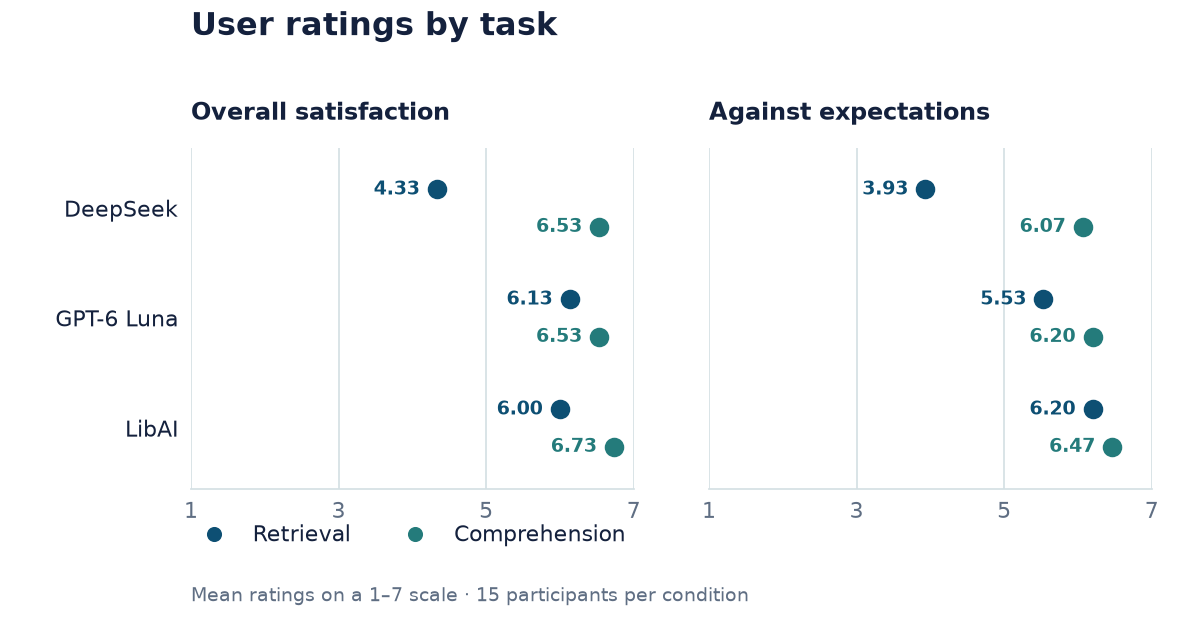
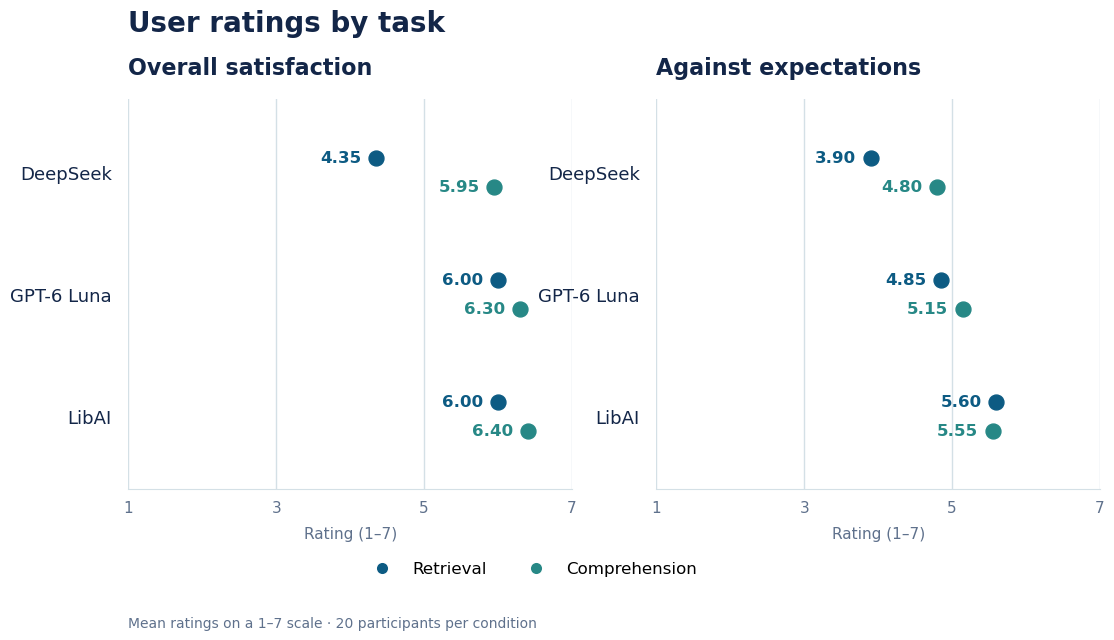
Add files via upload

diff --git a/ADS401_GroupJ_Report.html b/ADS401_GroupJ_Report.html
@@ -63,7 +63,7 @@
 <div class="overview-copy">
 <p class="lead-paragraph">This project examines whether XJTLU postgraduate students use LibAI for literature work, what they want from a library AI service, and how LibAI performs on common literature tasks.</p>
 <p>We first surveyed 107 postgraduates about LibAI use, non-use reasons, AI-supported literature tasks and improvement priorities. We then compared LibAI with ChatGPT (GPT-6 Luna configuration) and DeepSeek on literature retrieval and abstract understanding, and used interview feedback to add context to the results.</p>
-<p>Respondents placed particular value on reliable, verifiable sources and accuracy. In the retrieval task, LibAI matched GPT-6 Luna on mean quality and source verifiability. Interview feedback also identified faster responses as a desired improvement. Together, the findings suggest preserving and improving source traceability while treating response speed as a service need for further evaluation.</p>
+<p>Respondents placed particular value on reliable, verifiable sources and accuracy. In the retrieval task, LibAI matched GPT-6 Luna on mean quality and source verifiability. Interviewees mentioned speed, while generally prioritising reliability; response time is therefore a service need to investigate alongside quality.</p>
 </div>
 <div aria-label="Key survey and task study results" class="evidence-strip" role="group"><div class="evidence-item"><p class="evidence-number">40.2%</p><p>had ever used LibAI (43 of 107)</p></div><div class="evidence-item"><p class="evidence-number">59.8%</p><p>had never used LibAI (64 of 107)</p></div><div class="evidence-item"><p class="evidence-number">50.5%</p><p>selected source verification or accuracy as their top improvement</p></div><div class="evidence-item"><p class="evidence-number">19.30 / 20</p><p>mean retrieval score for both LibAI and GPT-6 Luna</p></div></div>
 </div></section>
@@ -82,7 +82,7 @@
 <div class="section-heading"><p class="section-label">04 / Study design and methods</p><h2>Survey design and experiment approach</h2></div>
 <div class="finding-block single"><div><h3>4.1 Questionnaire: adoption and user needs</h3><p>The questionnaire moved from students’ general AI use to their specific experience with LibAI. It asked which AI tools they used for literature-related work and which tasks they used them for; whether they knew about or had used LibAI; and, based on their experience, what factors encouraged or hindered use. It also asked respondents to rate desired functions and select the improvement they would prioritise first. Responses about common literature tasks informed task selection, while the other AI tools reported by respondents informed comparator selection. The bilingual questionnaire targeted XJTLU postgraduate students. Of 124 raw submissions, six did not consent and 11 were not XJTLU postgraduates, leaving 107 eligible responses.</p><p>Findings are descriptive and exploratory. The survey used non-probability convenience/snowball recruitment.</p></div></div>
 <div class="survey-experiment-map"><h3>How the survey informed the experiment</h3><p class="map-intro">Three questionnaire findings shaped the task choice, comparison systems and scoring focus.</p><div class="map-row"><div class="map-survey"><p class="map-label">Survey question · Q6</p><h4>Which academic tasks do students use AI for?</h4><p>Among 97 recent AI users, literature search/screening and reading/summarising were each selected by 61 respondents.</p></div><div class="map-arrow" aria-hidden="true">→</div><div class="map-experiment"><p class="map-label">Experiment design</p><h4>Test literature retrieval and abstract understanding</h4><p>The two task areas represent common literature work reported in the questionnaire.</p></div></div><div class="map-row"><div class="map-survey"><p class="map-label">Survey question · Q7</p><h4>Which AI tool do students use most?</h4><p>ChatGPT was named by 32 respondents and DeepSeek by 31; two named LibAI (n=97).</p></div><div class="map-arrow" aria-hidden="true">→</div><div class="map-experiment"><p class="map-label">Experiment design</p><h4>Compare LibAI with ChatGPT and DeepSeek</h4><p>The experiment used GPT-6 Luna as the ChatGPT configuration, alongside DeepSeek and LibAI.</p></div></div><div class="map-row"><div class="map-survey"><p class="map-label">Survey question · Q28</p><h4>Which improvement should LibAI prioritise first?</h4><p>Verifiable sources were selected by 28 respondents and accuracy by 26 (n=107).</p></div><div class="map-arrow" aria-hidden="true">→</div><div class="map-experiment"><p class="map-label">Experiment design</p><h4>Score source traceability and answer quality</h4><p>The rubric assessed source verifiability, correctness, relevance, completeness and clarity.</p></div></div><p class="map-caption">The survey determined what to examine; the experiment compared outputs on those selected tasks and criteria.</p></div>
-<div class="two-col"><div><h3>4.2 Task comparison: procedure</h3><p>To assess the common literature tasks identified in the survey, 20 XJTLU postgraduates used LibAI, DeepSeek and GPT-6 Luna (ChatGPT configuration) to complete a literature-retrieval task and a fixed abstract-comprehension task. Each participant completed six trials, producing 120 answers for scoring. Participants were interviewed after the tasks. The results briefly compare the three systems on these tasks.</p></div><div><h3>4.3 Measures and safeguards</h3><p>Participants recorded each system’s specific response. The group then conducted a second blind review of the recorded answers to cross-check the results. Reviewers assessed correctness, relevance, completeness, source verifiability and clarity/actionability using the 0–20 scoring scale. </p><p>All 20 participants’ task answers were included in output scoring. Complete seven-point satisfaction and expectation ratings were available for 15 participants; the other five records were incomplete for this measure and were not included in the rating analysis. Participation in the questionnaire and experiment required informed consent, and recording required separate consent. This page reports aggregate findings only and does not display raw responses or identifying information.</p></div></div>
+<div class="two-col"><div><h3>4.2 Task comparison: procedure</h3><p>To assess the common literature tasks identified in the survey, 20 XJTLU postgraduates used LibAI, DeepSeek and GPT-6 Luna (ChatGPT configuration) to complete a literature-retrieval task and a fixed abstract-comprehension task. Each participant completed six trials, producing 120 answers for scoring. Participants were interviewed after the tasks. The results briefly compare the three systems on these tasks.</p></div><div><h3>4.3 Measures and safeguards</h3><p>Participants recorded each system’s specific response. The group then conducted a second blind review of the recorded answers to cross-check the results. Reviewers assessed correctness, relevance, completeness, source verifiability and clarity/actionability using the 0–20 scoring scale. </p><p>All 20 participants’ task answers were included in output scoring. Complete seven-point satisfaction and expectation ratings were available for all 20 participants and analysed as within-participant responses. Participation in the questionnaire and experiment required informed consent, and recording required separate consent. This page reports aggregate findings only and does not display raw responses or identifying information.</p></div></div>
 </div></section>
 <section class="section" id="findings"><div class="wrap">
 <div class="section-heading"><p class="section-label">05 / Survey findings</p><h2>Few students use LibAI; sources and accuracy lead priorities</h2></div>
@@ -93,28 +93,28 @@
 <div class="finding-block"><div><p class="mini-label">RQ3 / Barriers and priorities</p><h3>Non-use reflects competing tools and practical barriers</h3><p>Among 64 respondents who had never used LibAI, 30 said external AI already met their literature needs (46.9%). Twenty-four did not know which academic tasks LibAI could help with (37.5%), 24 lacked an opportunity to try it (37.5%), and 22 did not know how to access it (34.4%). Sixteen (25.0%) reported concerns about accuracy or sources.</p><p>Among 43 current or former users, commonly reported limitations included insufficient database or resource coverage (18, 41.9%), irrelevant or inaccurate results (17, 39.5%), and external AI already meeting their needs (17, 39.5%). Sixteen users (37.2%) also reported difficulty with complex or mixed-language requests, while 15 (34.9%) reported insufficient source or evidence information.</p></div><div class="finding-aside"><p class="mini-label">Improvement priorities</p><p>As a single top priority, 28 respondents selected verifiable sources and evidence (26.2%), and 26 selected accuracy and fewer fabricated answers (24.3%). Together, these accounted for 54 of 107 choices (50.5%). Database coverage followed with 13 choices (12.1%).</p></div></div>
 </div></section>
 <section class="section alt" id="experiment"><div class="wrap">
-<div class="section-heading"><p class="section-label">06 / Task experiment</p><h2>LibAI and GPT-6 Luna performed similarly across the two tasks</h2></div>
-<p class="lead-paragraph">Across the two tasks, LibAI and GPT-6 Luna achieved similar mean scores. On literature retrieval, both averaged 19.30/20, compared with 13.75/20 for DeepSeek. On abstract comprehension, scores were close to the maximum: 19.85/20 for LibAI, 19.90/20 for GPT-6 Luna and 19.50/20 for DeepSeek; no pairwise differences were statistically significant. These results indicate that LibAI performed comparably to GPT-6 Luna on the tasks tested.</p>
+<div class="section-heading"><p class="section-label">06 / Task experiment</p><h2>Experiment on LibAI and Common Generative AI's Retrieval and Comprehension Abilities</h2></div>
+<p class="lead-paragraph">Across the same literature-retrieval and abstract-comprehension tasks, the systems showed different patterns. LibAI and GPT-6 Luna both averaged 19.30/20 on retrieval, above DeepSeek's 13.75/20; LibAI also matched GPT-6 Luna on source verifiability (3.75/4). Comprehension scores clustered near full marks, with no significant pairwise differences. This supports a comparison on the tested tasks, not a general ranking across topics or users.</p>
 
 <div class="table-wrap"><table><caption>Table 2. Mean answer quality and full-mark counts in the reported task sample</caption><thead><tr><th>System</th><th>Retrieval mean (SD)</th><th>Retrieval full marks</th><th>Comprehension mean (SD)</th><th>Comprehension full marks</th></tr></thead><tbody><tr><th scope="row">DeepSeek</th><td>13.75 (1.83)</td><td>0 / 20</td><td>19.50 (0.69)</td><td>12 / 20</td></tr><tr><th scope="row">GPT-6 Luna (ChatGPT)</th><td>19.30 (1.63)</td><td>14 / 20</td><td>19.90 (0.45)</td><td>19 / 20</td></tr><tr><th scope="row">LibAI</th><td>19.30 (0.86)</td><td>11 / 20</td><td>19.85 (0.49)</td><td>18 / 20</td></tr></tbody></table></div>
-<div class="chart-overview"><div class="chart-overview-head"><div><p class="mini-label">Task evidence</p><h3>Quality and user ratings</h3></div><p>Quality scores cover all 20 participants. Experience ratings use 15 complete cases.</p></div><div class="chart-mosaic"><figure class="primary-chart"><img alt="Mean quality out of 20: retrieval DeepSeek 13.75, GPT-6 Luna 19.30, LibAI 19.30; comprehension 19.50, 19.90 and 19.85." class="chart-image" src="assets/experiment-charts/mean-quality.png"/><figcaption><strong>Figure 6.</strong> Mean blinded quality score, n=20 per system and task.</figcaption></figure><figure class="primary-chart"><img alt="Retrieval source verifiability averages: DeepSeek 2.20/4, GPT-6 Luna 3.75/4, LibAI 3.75/4; completeness averages 2.25, 3.80 and 3.95." class="chart-image" src="assets/experiment-charts/retrieval-dimensions.png"/><figcaption><strong>Figure 7.</strong> Source verifiability and completeness scores.</figcaption></figure><figure class="primary-chart"><img alt="Full-mark rates: retrieval 0% DeepSeek, 70% GPT-6 Luna and 55% LibAI; comprehension 60%, 95% and 90%." class="chart-image" src="assets/experiment-charts/perfect-scores.png"/><figcaption><strong>Figure 8.</strong> Full-mark rates; comprehension clusters near the ceiling.</figcaption></figure><figure class="primary-chart"><img alt="Mean satisfaction and expectation ratings across two tasks for the three systems, based on 15 participants." class="chart-image" src="assets/experiment-charts/user-experience.png"/><figcaption><strong>Figure 9.</strong> Satisfaction and expectation ratings, n=15.</figcaption></figure></div></div>
-<div class="finding-block"><div><p class="mini-label">Retrieval</p><h3>Large paired difference from DeepSeek</h3><p>The overall within-participant comparison differed across systems (Friedman Q=33.74, Kendall's W=.84, adjusted p&lt;.001). LibAI and GPT-6 Luna each averaged 5.55 points above DeepSeek; both paired comparisons had adjusted p&lt;.001. LibAI and GPT-6 Luna tied in 11 of 20 participant comparisons (adjusted p=1.000). Their source-verifiability means were both 3.75/4; DeepSeek's was 2.20/4.</p></div><div class="finding-aside"><p class="mini-label">Comprehension</p><h3>Scores clustered near full marks</h3><p>Forty-nine of 60 answers received full marks. The overall test detected a smaller system difference (Friedman Q=8.00, W=.20, adjusted p=.0119), but none of the pairwise comparisons was significant. This ceiling limits the task's ability to distinguish systems.</p></div></div>
-<div class="finding-block reverse"><div><p class="mini-label">User experience</p><h3>Ratings add context, not objective quality</h3><p>Among 15 complete cases, retrieval satisfaction differed across systems (Friedman Q=18.55, W=.62, adjusted p&lt;.001), as did expectation-confirmation ratings (Q=18.62, W=.62, adjusted p&lt;.001). GPT-6 Luna had the highest retrieval satisfaction mean (6.13/7); LibAI had the highest expectation-confirmation rating (6.20/7). Comprehension ratings did not differ significantly.</p></div><div class="finding-aside"><p class="mini-label">Interview feedback</p><h3>Response speed is a user-valued improvement</h3><p>Interview feedback commonly mentioned a wish for LibAI to respond faster. This reflects users’ experience and expectations and complements the task scores; it is considered as a service-improvement need.</p></div></div>
+<div class="chart-overview"><div class="chart-overview-head"><div><p class="mini-label">Task evidence</p><h3>Quality and user ratings</h3></div><p>Blind quality scores cover all 20 participants. Complete seven-point experience ratings are available for all 20 participants.</p></div><div class="chart-mosaic"><figure class="primary-chart"><img alt="Mean quality out of 20: retrieval DeepSeek 13.75, GPT-6 Luna 19.30, LibAI 19.30; comprehension 19.50, 19.90 and 19.85." class="chart-image" src="assets/experiment-charts/mean-quality.png"/><figcaption><strong>Figure 6.</strong> Mean blinded quality score, n=20 per system and task.</figcaption></figure><figure class="primary-chart"><img alt="Retrieval source verifiability averages: DeepSeek 2.20/4, GPT-6 Luna 3.75/4, LibAI 3.75/4; completeness averages 2.25, 3.80 and 3.95." class="chart-image" src="assets/experiment-charts/retrieval-dimensions.png"/><figcaption><strong>Figure 7.</strong> Source verifiability and completeness scores.</figcaption></figure><figure class="primary-chart"><img alt="Full-mark rates: retrieval 0% DeepSeek, 70% GPT-6 Luna and 55% LibAI; comprehension 60%, 95% and 90%." class="chart-image" src="assets/experiment-charts/perfect-scores.png"/><figcaption><strong>Figure 8.</strong> Full-mark rates; comprehension clusters near the ceiling.</figcaption></figure><figure class="primary-chart"><img alt="Mean satisfaction and expectation ratings across two tasks for the three systems, based on 20 participants." class="chart-image" src="assets/experiment-charts/user-experience.png"/><figcaption><strong>Figure 9.</strong> Satisfaction and expectation ratings, n=20.</figcaption></figure></div></div>
+<div class="finding-block"><div><p class="mini-label">Retrieval</p><h3>Well-performed in comparison with common generative AI</h3><p>The overall within-participant comparison differed across systems (Friedman Q=33.74, Kendall's W=.84, adjusted p&lt;.001). LibAI and GPT-6 Luna each averaged 5.55 points above DeepSeek; both paired comparisons had adjusted p&lt;.001. LibAI and GPT-6 Luna tied in 11 of 20 participant comparisons (adjusted p=1.000). Their source-verifiability means were both 3.75/4; DeepSeek's was 2.20/4.</p></div><div class="finding-aside"><p class="mini-label">Comprehension</p><h3>High performance clustered near full marks</h3><p>Forty-nine of 60 answers received full marks. The overall test detected a smaller system difference (Friedman Q=8.00, W=.20, adjusted p=.0119), but none of the pairwise comparisons was significant. This ceiling limits the task's ability to distinguish systems.</p></div></div>
+<div class="finding-block reverse"><div><p class="mini-label">User experience</p><h3>Competitive user satisfaction ratings</h3><p>All 20 participants completed the seven-point ratings. On retrieval, satisfaction averaged 4.35/7 for DeepSeek, 6.00/7 for GPT-6 Luna and 6.00/7 for LibAI; the within-participant difference was significant (Friedman Q=28.62, Kendall’s W=.72, p&lt;.001), with no difference between GPT-6 Luna and LibAI after pairwise adjustment. Retrieval expectation ratings were 3.90, 4.85 and 5.60/7 respectively (Q=23.23, W=.58, p&lt;.001). On comprehension, satisfaction averaged 5.95, 6.30 and 6.40/7 (Q=5.70, W=.14, p=.058); expectation ratings averaged 4.80, 5.15 and 5.55/7 (Q=9.25, W=.23, p=.010). Satisfaction was high and similar across systems for comprehension; the clearest expectation difference was between DeepSeek and LibAI (Holm-adjusted p=.014). These user ratings are reported separately from blind output-quality scores.</p></div><div class="finding-aside"><p class="mini-label">Interview feedback</p><h3>Speed matters, but source reliability comes first</h3><p>In the five actual interview transcripts, participants mentioned speed but placed source reliability and accuracy ahead of it when asked to choose. The task study did not systematically measure response time, so speed is a service improvement to investigate rather than a demonstrated performance gap.</p></div></div>
 <div class="evidence-note"><strong>Answer to RQ4.</strong> System differences depended on the task and outcome. The clearest quality separation appeared in literature retrieval; abstract-comprehension scores clustered near the ceiling, with no significant pairwise differences. Retrieval satisfaction and expectation confirmation also varied by system, while comprehension ratings did not. No single system led on every measure.</div>
 </div></section>
 <section class="section" id="discussion"><div class="wrap">
-<div class="section-heading"><p class="section-label">07 / Discussion and recommendations</p><h2>Make trust visible and give non-users a reason to try</h2></div>
+<div class="section-heading"><p class="section-label">07 / Discussion and recommendations</p><h2>Maintaining Quality: Response Speed as the Primary Improvement Area</h2></div>
 <p>The survey records what students want; the task comparison shows performance on two controlled tasks. Sources and accuracy led survey priorities, yet LibAI scored strongly on source verifiability and retrieval quality in the tested topic. Make this capability visible and validate it more broadly; do not claim a proven general accuracy defect.</p>
-<div class="recommendation-grid"><article class="recommendation-card"><p class="card-kicker">Priority 1 / Product experience</p><h3>Expose the source trail in the answer</h3><p>Show title, authors, year, DOI and a working source link together, and make the evidence behind a claim easy to inspect. This responds to the survey's leading priorities; the task study scored LibAI 3.75/4 for source verifiability. Preserve this tested strength and validate it on more topics before proposing a system-wide quality fix.</p></article><article class="recommendation-card"><p class="card-kicker">Priority 2 / Adoption</p><h3>Offer a task-based first-use path</h3><p>Give students a clear entry route and a low-risk demonstration for finding and checking a paper. This addresses 22 respondents who did not know how to access LibAI, 24 who did not know suitable tasks and 24 who lacked a chance to try it. Since 30 never-users said external AI met their needs, explain LibAI's library-specific value rather than promising generic AI features.</p></article><article class="recommendation-card"><p class="card-kicker">Priority 3 / Coverage</p><h3>Audit retrieval across disciplines</h3><p>Coverage was a top improvement choice for 13 respondents. The experiment's one search topic cannot measure database coverage across subjects. Compare LibAI with a human-checked reference set for several disciplines and report missed relevant records as well as correct returns.</p></article><article class="recommendation-card"><p class="card-kicker">Priority 4 / Next evaluation</p><h3>Treat response speed as a user-reported improvement need</h3><p>Interview feedback commonly raised faster responses as a desired improvement. Treat this as a user-reported need, and measure time to a usable, verified answer in a future evaluation before making claims about which system is faster.</p></article></div>
-<div class="evidence-key"><strong>Evidence status:</strong> Priority 1 combines survey demand with a measured score on one retrieval task. Priority 2 is survey-based. Priority 3 is a requested feature that the experiment cannot validate. Priority 4 is a measurement recommendation, not a claim that speed is poor.</div>
+<div class="recommendation-grid"><article class="recommendation-card"><p class="card-kicker">Priority 1 / Source verification and quality</p><h3>Keep evidence easy to verify</h3><p>Fifty-four of 107 respondents (50.5%) selected source verification or accuracy as their top improvement priority: 28 chose verifiable sources and 26 chose accuracy. In the retrieval task, LibAI averaged 19.30/20 for quality and 3.75/4 for source verifiability, matching GPT-6 Luna. Preserve this tested strength and make source trails easier to inspect.</p></article><article class="recommendation-card"><p class="card-kicker">Priority 2 / Response speed</p><h3>Improve speed while protecting answer quality</h3><p>The interview records are genuine, including the five interviews previously labelled as simulated. They mention waiting and response speed; one repeated-round interview record explicitly selected speed as its top improvement. Survey respondents still most often prioritised source verification or accuracy (54/107), and interviewees also emphasised reliability. We did not systematically record response times, so this recommendation is to improve the waiting experience while protecting verifiable answer quality, not a claim that LibAI was slower than the other systems.</p></article><article class="recommendation-card"><p class="card-kicker">Priority 3 / Coverage across disciplines</p><h3>Audit database coverage across subjects</h3><p>Thirteen respondents selected coverage as their top improvement, while 18 of 43 current or former LibAI users (41.9%) reported insufficient database coverage as a limitation. The single-topic experiment cannot test cross-disciplinary coverage. Run a multi-discipline audit and report relevant records missed as well as those retrieved.</p></article><article class="recommendation-card"><p class="card-kicker">Priority 4 / Onboarding and access</p><h3>Make the first useful task easy to start</h3><p>Among 64 never-users, 22 (34.4%) did not know how to access LibAI, 24 (37.5%) did not know suitable tasks and 24 (37.5%) had not had a chance to try it. Thirty (46.9%) said external AI already met their needs. Provide a clear entry path and task-based examples that show LibAI's library-specific value.</p></article></div>
+<div class="evidence-key"><strong>Evidence status:</strong> Source and accuracy priorities are supported by the survey and tested retrieval scores. Speed is interview feedback that was not timed in the experiment. Coverage is a reported user limitation that needs testing across disciplines. Access and onboarding barriers are survey findings.</div>
 
-<p class="small muted">The next evaluation should extend testing across more participants, disciplines and LibAI functions, and directly measure response time alongside answer quality.</p>
+<p class="small muted">Next, test source traceability across more topics, measure response time alongside answer quality, and examine database coverage across disciplines.</p>
 </div></section>
 <section class="section alt" id="transparency"><div class="wrap">
 <div class="section-heading"><p class="section-label">08 / Transparency and references</p><h2>Materials, contributors and evidence limits</h2></div>
-<div class="two-col transparency-top"><div><h3>Data and materials</h3><p>This page contains aggregate results only; the cleaned workbook, raw export, consent forms, interviews and trial-level scores are not included. The 8 November manual is the pre-experiment plan; the later study had 20 participants and lacks order and timing records.</p><p>The earlier n=94 survey report is superseded by the current cleaned n=107 file and is no longer linked from this page. Short-duration and straight-line-rating flags remain in the cleaned sample.</p></div><div><h3>Contributions</h3><p>Fengyi Guo, Jingyu Li, Liyutong Gao and Yuyang Long shared study design, questionnaire logic, data interpretation, report review and experiment planning, according to the group contribution record. All members remain responsible for checking the analysis and final report.</p><h3>Ethics and AI-use statement</h3><p>Participation was voluntary and consent-based; experiment recording required separate consent. The supplied materials do not show an ethics approval reference or retention schedule; add verified details before submission. OpenAI Codex assisted with report restructuring, evidence-linked drafting and web formatting. The coursework sheet limits AI to non-substantive use; the group must confirm this scope with the module leader before submission and follow the required disclosure rule.</p></div></div>
+<div class="two-col transparency-top"><div><h3>Data and materials</h3><p>This evaluation draws on three sources: a survey with 107 eligible responses from 124 raw submissions; a task experiment with 20 XJTLU postgraduate participants completing six trials each across three systems, producing 120 scored answers (20 retrieval and 20 comprehension answers per system); and interview transcripts providing qualitative feedback on user experience and service needs. The five interviews previously labelled as simulated are included as genuine records, following the study team’s clarification. Blind output-quality scores and complete seven-point satisfaction and expectation ratings use all 20 participants; the two measures are analysed separately.</p><p>This page contains aggregate results only. The cleaned workbook, raw survey export, consent forms, original interview recordings and trial-level scores are not included here because of privacy and file-size constraints. The 8 November manual is the pre-experiment plan. The earlier n=94 survey report is superseded by the cleaned n=107 dataset.</p></div><div><h3>Contributions</h3><p>Fengyi Guo, Jingyu Li, Liyutong Gao and Yuyang Long shared study design, questionnaire logic, data interpretation, report review and experiment planning, according to the group contribution record. All members remain responsible for checking the analysis and final report.</p><h3>Ethics and AI-use statement</h3><p>Participation was voluntary and consent-based; experiment recording required separate consent. The supplied materials do not show an ethics approval reference or retention schedule; add verified details before submission. OpenAI Codex assisted with report restructuring, evidence-linked drafting and web formatting. The coursework sheet limits AI to non-substantive use; the group must confirm this scope with the module leader before submission and follow the required disclosure rule.</p></div></div>
 <h3>References</h3><ol class="refs"><li>W. H. Walters and E. I. Wilder, "Fabrication and errors in the bibliographic citations generated by ChatGPT," <em>Scientific Reports</em>, vol. 13, art. 14045, 2023. <a href="https://doi.org/10.1038/s41598-023-41032-5">doi:10.1038/s41598-023-41032-5</a>.</li><li>O. Lau and S. Golder, "Comparison of Elicit AI and Traditional Literature Searching in Evidence Syntheses Using Four Case Studies," <em>Cochrane Evidence Synthesis and Methods</em>, 2025. <a href="https://doi.org/10.1002/cesm.70050">doi:10.1002/cesm.70050</a>.</li><li>M. Lagisz et al., "Using Elicit AI research assistant for data extraction in systematic reviews: A feasibility study across environmental and life sciences," <em>Research Synthesis Methods</em>, online 29 May 2026. <a href="https://doi.org/10.1017/rsm.2026.10080">doi:10.1017/rsm.2026.10080</a>.</li><li>ADS401 Group J, <em>LibAI Questionnaire: Bilingual Implementation and Coding Guide</em> and <em>LibAI questionnaire cleaned data, 107 eligible cases</em>, 2026.</li><li>ADS401 Group J, <em>LibAI Comparative Evaluation Experiment: Design and Implementation Manual</em>, version 1.0, 8 November 2026.</li><li>XJTLU ADS401, <em>Coursework Sheet: Report</em>, version 1.0, September 2026.</li></ol>
-<p class="small muted">Trial-level data were not available in the supplied files for independent recalculation of the reported experiment results.</p>
+<p class="small muted">Blind output-quality scores and complete seven-point experience ratings both use the 20-person experiment sample; the measures are analysed separately.</p>
 </div></section>
 </main>
 <footer class="site-footer">

diff --git a/README.md b/README.md
@@ -6,7 +6,7 @@ This repository hosts the single-page report for the LibAI evaluation project.
 
 - Survey: 107 eligible XJTLU postgraduate responses from 124 raw submissions.
 - Task comparison: 20 participants completed six trials each, producing 120 scored answers across three systems and two literature tasks.
-- Interview feedback commonly identified faster LibAI responses as a desired service improvement; the report treats this as user feedback, not a measured speed comparison.
+- Complete seven-point experience ratings are reported for all 20 experiment participants. Genuine interview records include feedback about response speed as well as source reliability and accuracy.
 - The earlier n=94 survey summary has been superseded by the current cleaned n=107 file.
 
 ## Files
